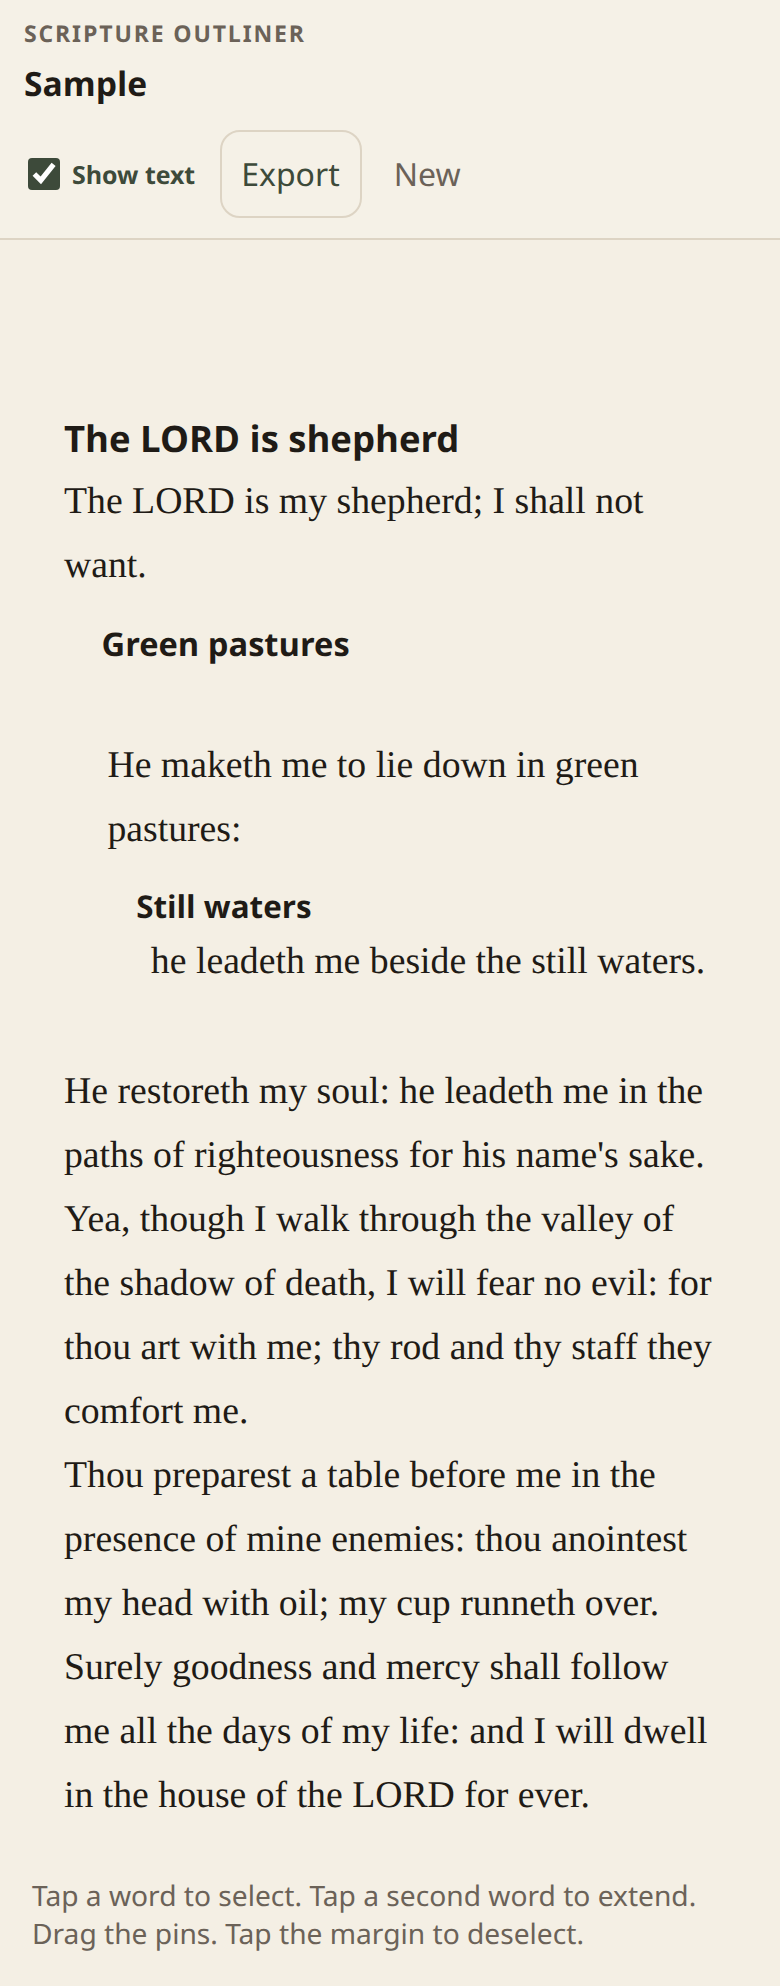
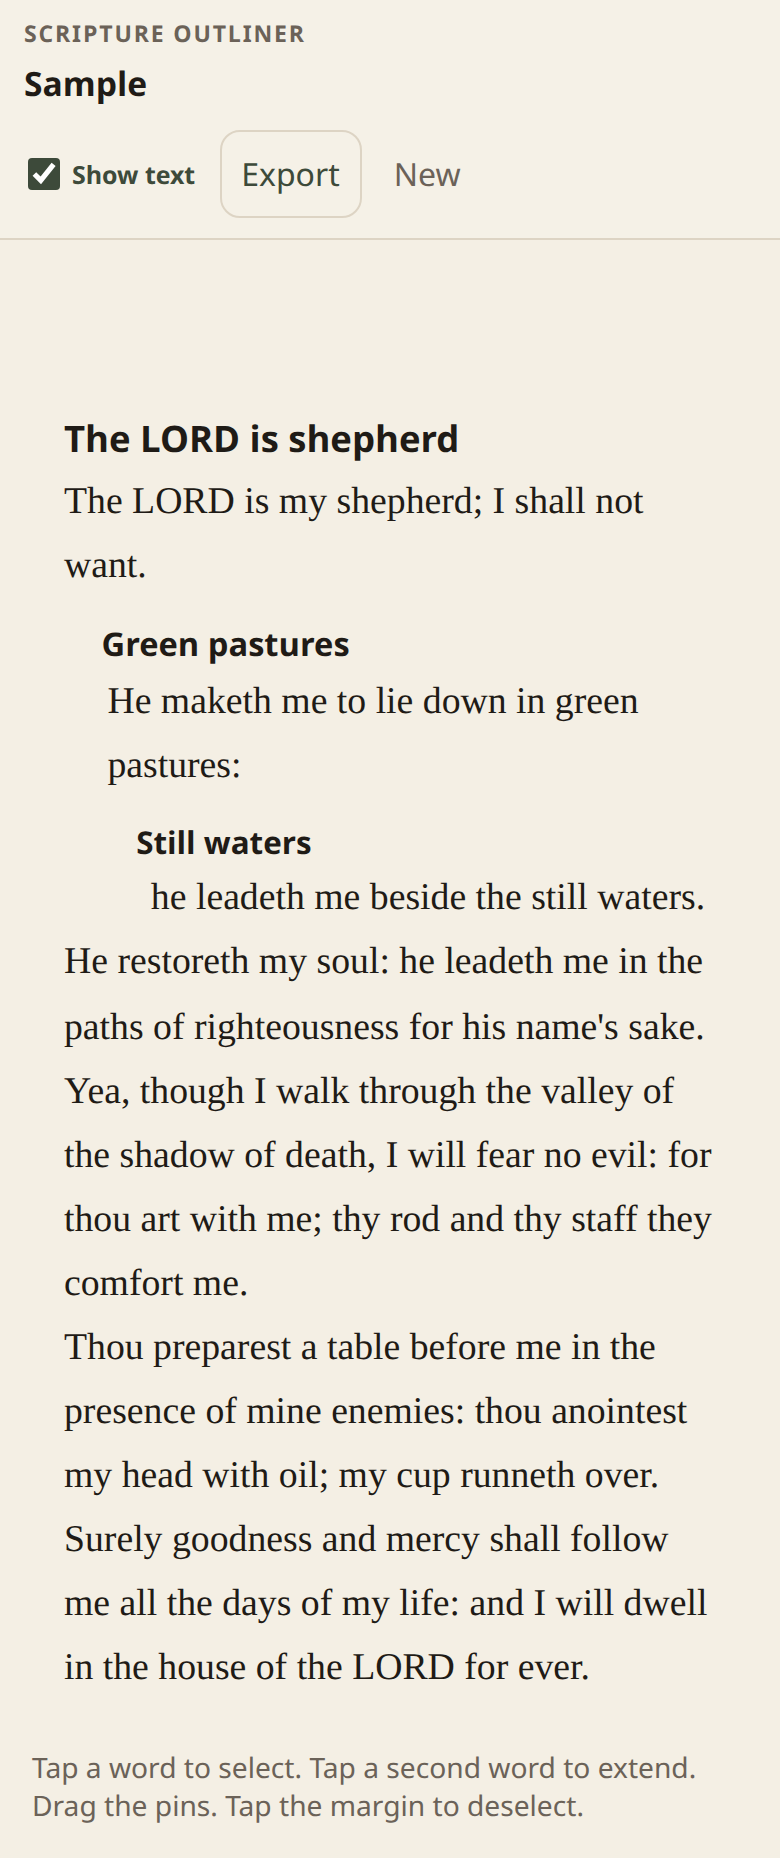
test(verify): record even header-to-body gaps
After the appendWordRange fix, nested outline depths spread 0.39px
(5.09 / 4.80 / 4.70) from header bottom to the first body word.

diff --git a/.cursor/skills/verify-scripture-outliner/evidence/header-body-spacing/REPRO.md b/.cursor/skills/verify-scripture-outliner/evidence/header-body-spacing/REPRO.md
@@ -23,3 +23,5 @@ The extra ~32px (one line) after **Green pastures** is inside the following `.wo
 Screenshot: `evidence/header-body-spacing/uneven.png`.
 
 Drive (unfixed): `Header-to-body gaps differ across depths by 32.17px` (5.09 / 36.88 / 4.70).
+
+Drive (fixed): spread `0.39px` (5.09 / 4.80 / 4.70). Screenshot: `evidence/header-body-spacing/nested.png`.
